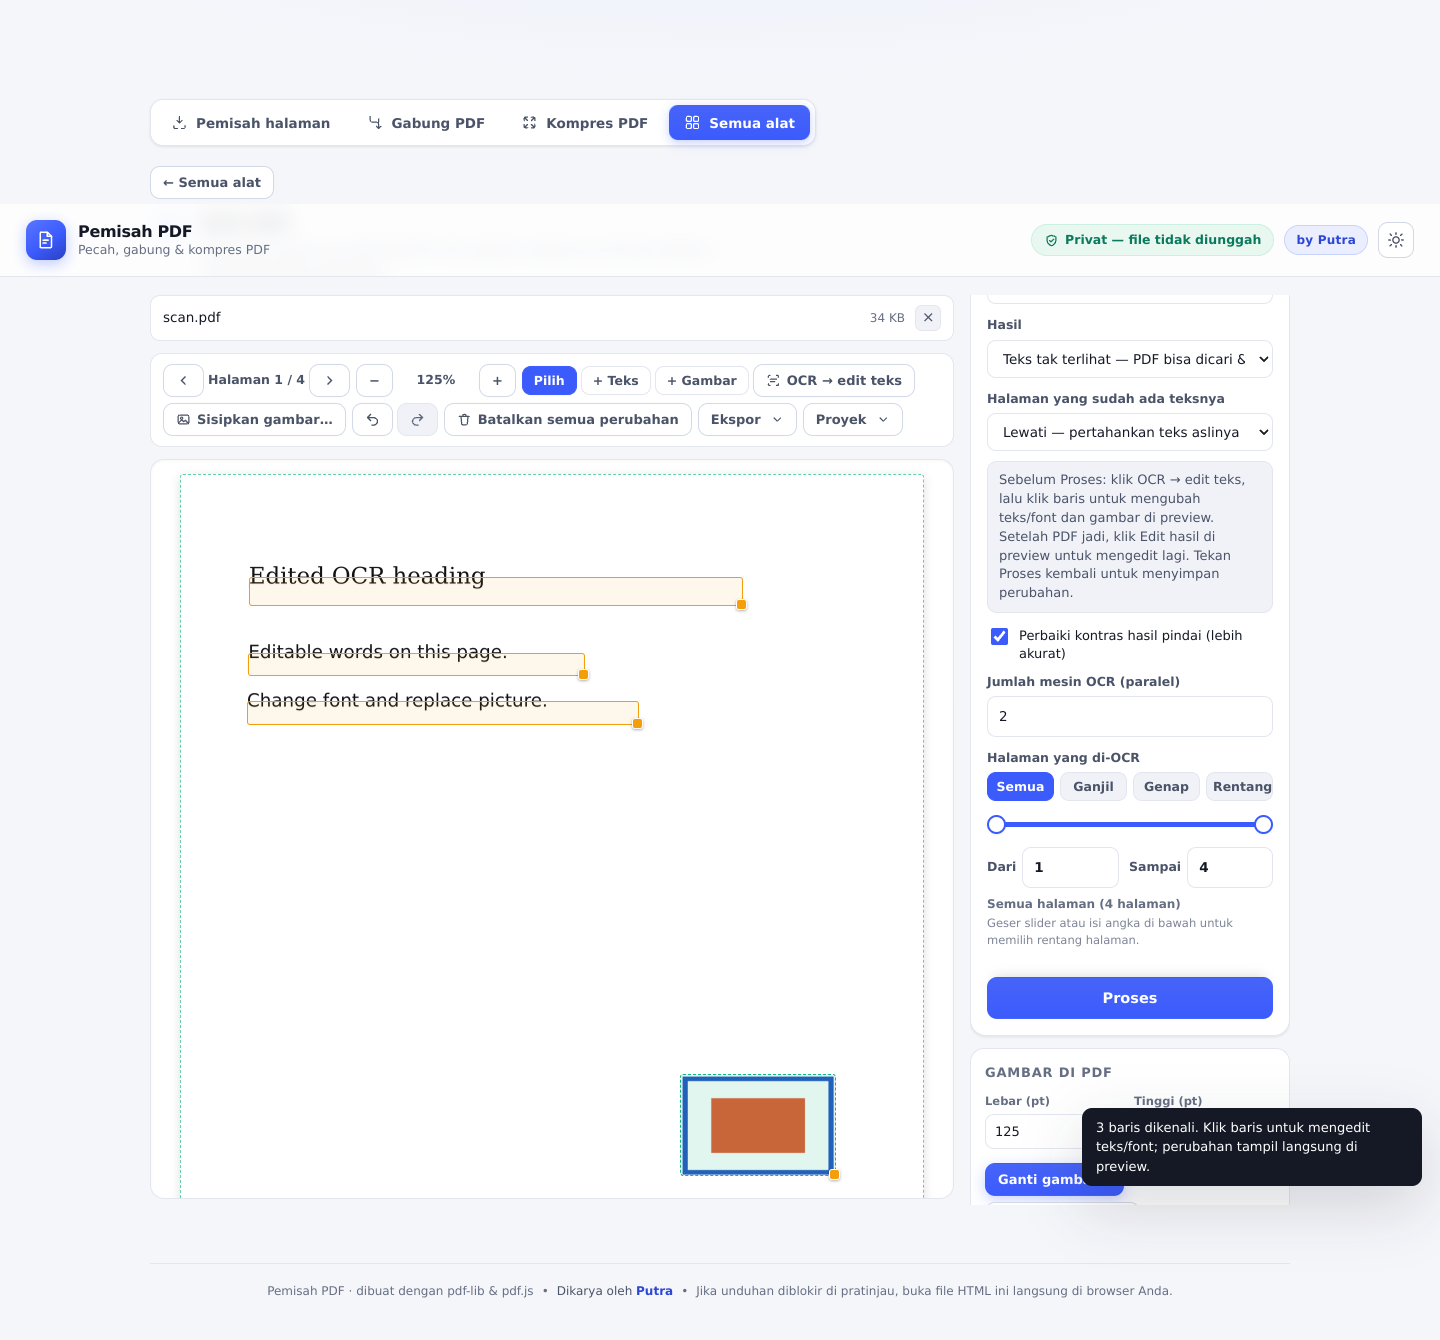
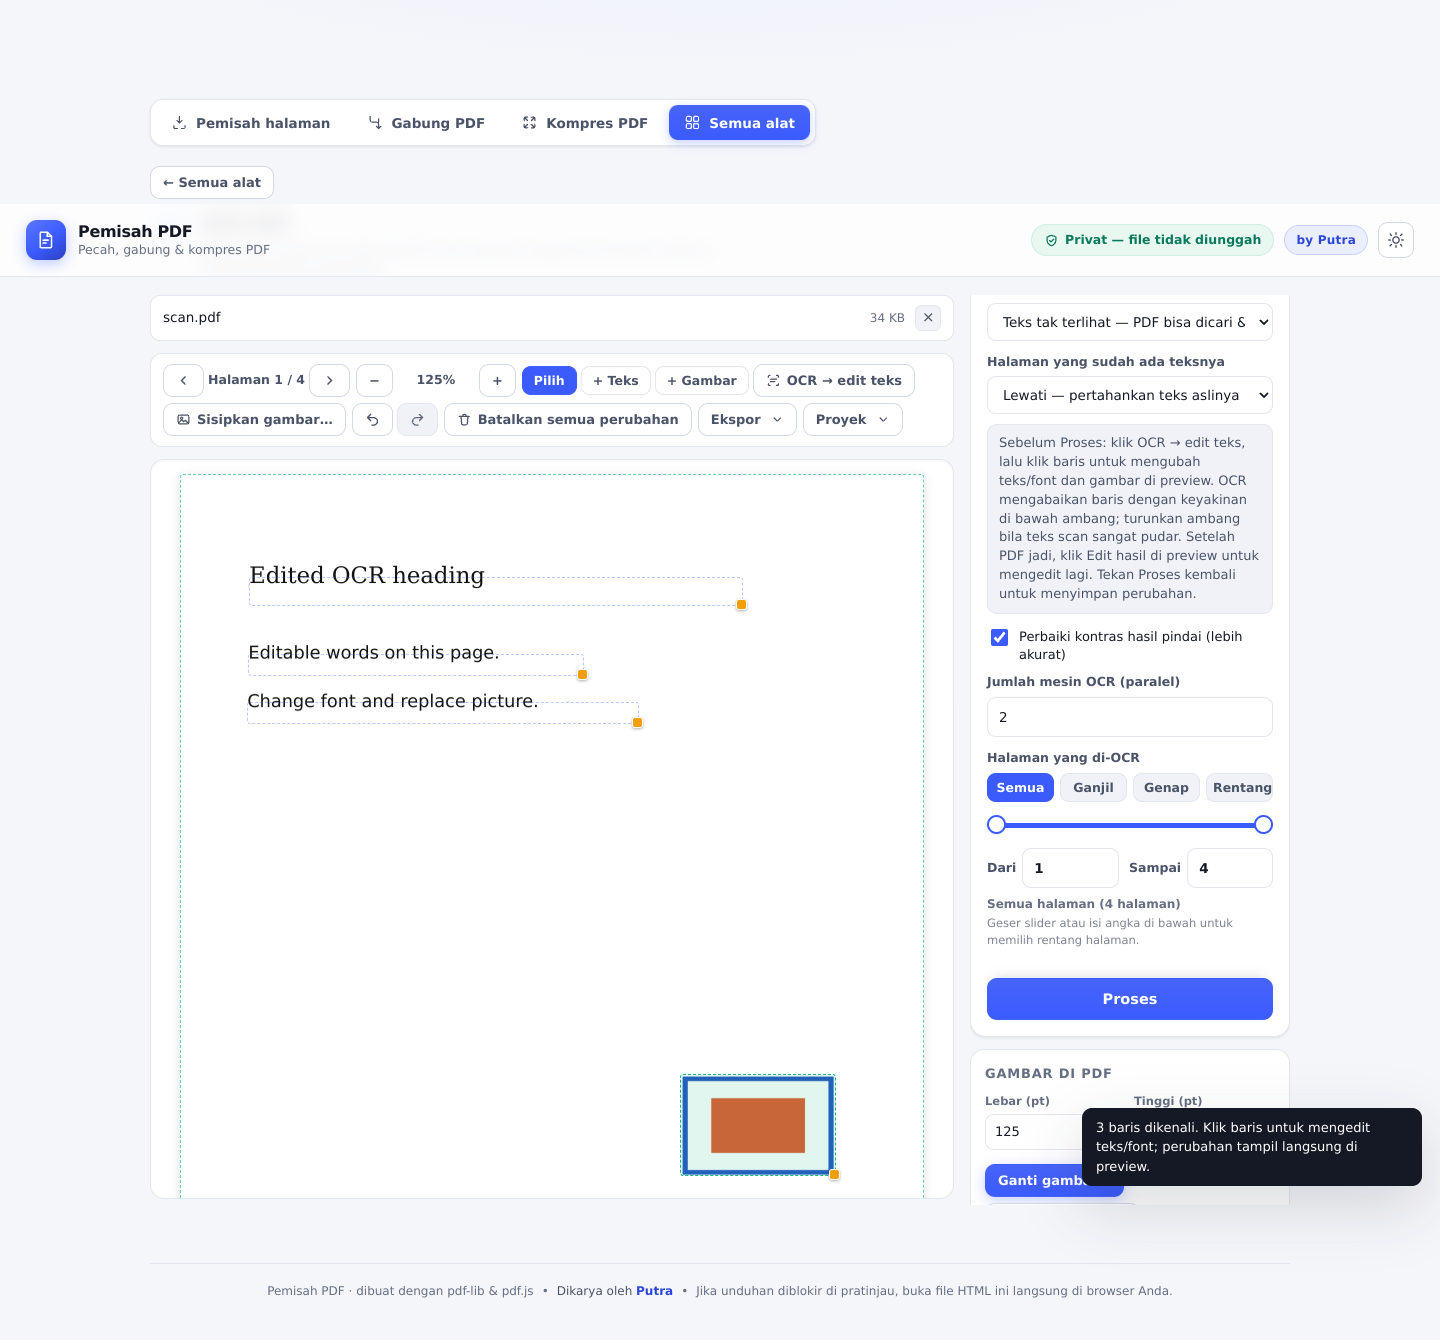
Kurangi noise dan tingkatkan kualitas OCR scan
Screenshot pengguna menunjukkan satu halaman scan sebagai gambar penuh dengan overlay OCR yang bertumpuk. Tambahkan confidence threshold yang bisa dikonfigurasi (30% default; 0-95) pada OCR preview dan hasil PDF untuk mengabaikan false positives; naikkan resolusi bawaan ke 250 DPI; tampilkan confidence skip dengan pesan yang dapat ditindaklanjuti; dan ubah kotak OCR non-selected menjadi transparan/garis tipis agar scan tetap terbaca. Jaga OCR satu worker offline untuk preview. Audit raster 4 rotasi: 26/0, termasuk mock confidence 92 vs 9, final PDF/searchable + visual preview 99%; audit-ocr 44/0, editor29/0, produksi74/0, payung129/0. Lampiran hanya screenshot, bukan PDF scan sumber—akurasi karakter spesifik tetap memerlukan sumber asli.

diff --git a/tool-smart.js b/tool-smart.js
@@ -1486,8 +1486,9 @@ td.tag{font-weight:600;white-space:nowrap;width:90px}
   }
 
   /* Kumpulkan kata + kotaknya dari hasil pengenalan Tesseract. */
-  function kumpulkanKata(data) {
+  function kumpulkanKata(data, ambang) {
     const out = [];
+    const minConf = Math.max(0, Math.min(95, Number(ambang) || 0));
     const blocks = (data && data.blocks) || [];
     for (const b of blocks) {
       for (const p of (b.paragraphs || [])) {
@@ -1495,9 +1496,10 @@ td.tag{font-weight:600;white-space:nowrap;width:90px}
           for (const w of (l.words || [])) {
             const bb = w.bbox;
             const text = (w.text || "").trim();
-            if (!text || !bb) continue;
+            const confidence = Number(w.confidence);
+            if (!text || !bb || (isFinite(confidence) && confidence >= 0 && confidence < minConf)) continue;
             out.push({
-              text,
+              text, confidence: isFinite(confidence) ? confidence : null,
               x0: bb.x0, y0: bb.y0, x1: bb.x1, y1: bb.y1,
             });
           }
@@ -1666,7 +1668,7 @@ td.tag{font-weight:600;white-space:nowrap;width:90px}
        abs  : PDF user space (dipakai pada halaman asli yang dipertahankan)
        tamp : ruang tampilan (dipakai pada halaman yang dibangun ulang) */
   async function ocrHalaman(o) {
-    const { pdfjs, nomor, worker, dpi, perbaiki, pakaiJpeg, laporkan } = o;
+    const { pdfjs, nomor, worker, dpi, perbaiki, pakaiJpeg, laporkan, minConfidence } = o;
     /* Coba orientasi intrinsic lebih dulu. Pada PDF scan legacy
        konten kadang sudah diputar berlawanan dengan /Rotate; bila
        confidence rendah, uji orientasi tampilan juga lalu pilih hasil
@@ -1716,7 +1718,7 @@ td.tag{font-weight:600;white-space:nowrap;width:90px}
 
     let kata = [];
     if (worker) {
-      kata = kumpulkanKata(res && res.data);
+      kata = kumpulkanKata(res && res.data, minConfidence);
     } else if ("TextDetector" in window) {
       try {
         const detektor = new window.TextDetector();
@@ -1791,7 +1793,8 @@ td.tag{font-weight:600;white-space:nowrap;width:90px}
           ["ind+eng", "Indonesia + Inggris (paling akurat, lebih lambat)"],
         ],
       },
-      { type: "number", id: "scale", label: "Resolusi OCR (DPI)", value: 200, min: 100, max: 400 },
+      { type: "number", id: "scale", label: "Resolusi OCR (DPI)", value: 250, min: 100, max: 400 },
+      { type: "number", id: "confidence", label: "Ambang keyakinan OCR (%)", value: 30, min: 0, max: 95 },
       {
         type: "select", id: "mode", label: "Hasil", value: "searchable",
         options: [
@@ -1807,7 +1810,7 @@ td.tag{font-weight:600;white-space:nowrap;width:90px}
           ["force", "OCR juga — teks asli diganti hasil OCR"],
         ],
       },
-      { type: "note", text: "Sebelum Proses: klik OCR → edit teks, lalu klik baris untuk mengubah teks/font dan gambar di preview. Setelah PDF jadi, klik Edit hasil di preview untuk mengedit lagi. Tekan Proses kembali untuk menyimpan perubahan." },
+      { type: "note", text: "Sebelum Proses: klik OCR → edit teks, lalu klik baris untuk mengubah teks/font dan gambar di preview. OCR mengabaikan baris dengan keyakinan di bawah ambang; turunkan ambang bila teks scan sangat pudar. Setelah PDF jadi, klik Edit hasil di preview untuk mengedit lagi. Tekan Proses kembali untuk menyimpan perubahan." },
       { type: "check", id: "contrast", label: "Perbaiki kontras hasil pindai (lebih akurat)", value: true },
       { type: "number", id: "workers", label: "Jumlah mesin OCR (paralel)", value: 2, min: 1, max: 4 },
       { type: "pagerange", id: "halaman", label: "Halaman yang di-OCR", value: { mode: "all", dari: 1, sampai: 0 } },
@@ -1818,6 +1821,7 @@ td.tag{font-weight:600;white-space:nowrap;width:90px}
       const mode = String(ctx.opts.mode || "searchable");
       const paksa = ctx.opts.existing === "force";
       const perbaiki = ctx.opts.contrast !== false;
+      const minConfidence = Math.max(0, Math.min(95, Number(ctx.opts.confidence) || 0));
       const jumlahMesin = Math.min(4, Math.max(1, Number(ctx.opts.workers) || 2));
       const out = [];
       const workers = [];
@@ -1887,6 +1891,7 @@ td.tag{font-weight:600;white-space:nowrap;width:90px}
               const h = await ocrHalaman({
                 pdfjs, nomor: r.nomor, worker: w, dpi, perbaiki,
                 pakaiJpeg: mode !== "clean" && r.adaTeks,
+                minConfidence,
                 laporkan: (jumlahKata) => {
                   selesai++;
                   ctx.progress(5 + Math.round((selesai / total) * 75),

diff --git a/tool-editor.js b/tool-editor.js
@@ -492,6 +492,7 @@
         d.style.height = r.h + "px";
         d.dataset.opid = o.id;
         d.title = o.k === "text" ? (o.text || "") : "Gambar baru";
+        if (o.ocrGenerated) d.classList.add("ed-ocr-box");
         const h = el("span", "ed-handle");
         d.appendChild(h);
         layer.appendChild(d);
@@ -1254,7 +1255,8 @@
         if (!window.Tesseract) throw new Error("Mesin OCR tidak termuat.");
         const ocrPrefs = (ui() && ui().opts) || {};
         const langs = String(ocrPrefs.lang || "ind+eng");
-        const dpi = Math.min(400, Math.max(100, Number(ocrPrefs.scale) || 180));
+        const dpi = Math.min(400, Math.max(100, Number(ocrPrefs.scale) || 250));
+        const minConfidence = Math.max(0, Math.min(95, Number(ocrPrefs.confidence) || 0));
         const base = new URL("vendor/tesseract/", location.href).href;
         let lastCoreError = null;
         for (const core of ["tesseract-core-simd-lstm.wasm.js", "tesseract-core-lstm.wasm.js"]) {
@@ -1284,12 +1286,18 @@
         const result = await worker.recognize(canvas, {}, { text: true, blocks: true });
         canvas.width = canvas.height = 0;
         const found = [];
+        let skippedLowConfidence = 0;
         for (const block of (result.data.blocks || [])) {
           for (const para of (block.paragraphs || [])) {
             for (const line of (para.lines || [])) {
               const text = (line.text || "").trim();
               const bb = line.bbox;
+              const confidence = Number(line.confidence);
               if (!text || !bb) continue;
+              if (isFinite(confidence) && confidence >= 0 && confidence < minConfidence) {
+                skippedLowConfidence++;
+                continue;
+              }
               const pdfViewport = page.getViewport({ scale: 1, rotation: 0 });
               const a = pdfViewport.convertToPdfPoint(bb.x0 / (dpi / 72), bb.y1 / (dpi / 72));
               const b = pdfViewport.convertToPdfPoint(bb.x1 / (dpi / 72), bb.y0 / (dpi / 72));
@@ -1299,7 +1307,9 @@
             }
           }
         }
-        if (!found.length) throw new Error("OCR tidak menemukan teks. Coba pindai dengan resolusi atau kontras yang lebih baik.");
+        if (!found.length) throw new Error(skippedLowConfidence
+          ? `Semua ${skippedLowConfidence} baris berada di bawah ambang keyakinan ${minConfidence}%. Turunkan ambang OCR atau tingkatkan kualitas scan.`
+          : "OCR tidak menemukan teks. Coba pindai dengan resolusi atau kontras yang lebih baik.");
         pushHistory(true);
         for (const item of found) {
           const id = "ocr" + (++S.opSeq);
@@ -1311,7 +1321,7 @@
         }
         S.sel = null;
         await redraw();
-        toast(`${found.length} baris dikenali. Klik baris untuk mengedit teks/font; perubahan tampil langsung di preview.`);
+        toast(`${found.length} baris dikenali${skippedLowConfidence ? `; ${skippedLowConfidence} baris berkeyakinan rendah dilewati` : ""}. Klik baris untuk mengedit teks/font; perubahan tampil langsung di preview.`);
       } catch (err) {
         toast("OCR gagal: " + ((err && err.message) || err), "err");
       } finally {

diff --git a/tool-ui.js b/tool-ui.js
@@ -884,9 +884,15 @@
             state.files = [{ id: "tf" + (++toolFileSeq), name: r.name, bytes,
               type: "application/pdf", size: bytes.length }];
             if (state.custom && state.custom.opts) state.custom.opts.edits = {};
+            /* renderFiles normally refreshes custom editors asynchronously.
+               Suppress that implicit call here so we can await exactly one
+               refresh and avoid a brief stale-preview race. */
+            const refreshEditor = state.custom && state.custom.refreshEditor;
+            if (state.custom) state.custom.refreshEditor = null;
             renderFiles();
-            if (state.custom && typeof state.custom.refreshEditor === "function") {
-              await state.custom.refreshEditor();
+            if (state.custom && typeof refreshEditor === "function") {
+              state.custom.refreshEditor = refreshEditor;
+              await refreshEditor();
             }
             if (sh().toast) sh().toast("PDF hasil OCR dimuat ke preview. Klik teks atau gambar untuk mengedit; tekan Proses lagi untuk menyimpan.", "ok", 5500);
             $("#toolView").scrollIntoView({ behavior: "smooth", block: "start" });

diff --git a/style.css b/style.css
@@ -1333,6 +1333,11 @@ code{background:var(--surface-2);border:1px solid var(--line);border-radius:6px;
 .ed-box.ed-new{border-style:solid;border-color:#f59e0b;background:rgba(245,158,11,.08)}
 .ed-box.edited{border-color:#f59e0b}
 .ed-box.sel{background:rgba(59,91,253,.14);border-color:var(--brand);border-style:solid}
+/* OCR menghasilkan banyak kotak. Jangan isi/tint semua scan sekaligus:
+   kotak OCR tak terpilih dibuat tipis, hover/seleksi baru disorot. */
+.ed-box.ed-ocr-box{border:1px dashed rgba(37,99,235,.34);background:transparent}
+.ed-box.ed-ocr-box:hover{background:rgba(59,91,253,.10);border-color:var(--brand)}
+.ed-box.ed-ocr-box.sel{background:rgba(59,91,253,.16);border-color:var(--brand);border-style:solid}
 .ed-handle{
   position:absolute;right:-5px;bottom:-5px;width:11px;height:11px;border-radius:3px;
   background:#f59e0b;border:1.5px solid #fff;box-shadow:0 1px 3px rgba(0,0,0,.3);cursor:nwse-resize;

diff --git a/README.md b/README.md
@@ -136,7 +136,7 @@ diduplikasi** — semuanya memakai tautan ke alur yang sudah ada:
 
 Fitur **OCR PDF** kini punya panggung preview editor sendiri. Setelah memilih PDF scan, tekan **“OCR → edit teks”** pada toolbar preview. Setiap baris hasil OCR menjadi lapisan yang bisa dipilih dan diedit langsung seperti objek Word: ubah isi, font, ukuran, warna, gaya, posisi, dan perataan. Foto/ilustrasi bisa dipilih lalu digeser, diubah ukurannya, diganti, dihapus, atau disisipkan. Tekan **Proses** di panel OCR untuk membuat PDF; teks edit diterapkan ke hasil akhir dan tetap searchable. Tombol **Edit hasil di preview** pada baris hasil membuka kembali PDF tersebut agar masih bisa diedit setelah OCR diproses; tekan **Proses** lagi untuk menyimpan revisi. Perubahan mendukung undo/redo dan simpan/buka proyek.
 
-OCR (Tesseract offline) memakai bahasa dan resolusi pilihan di panel (bawaan Indonesia, 200 DPI), satu worker. Pemilihan orientasi membandingkan orientasi intrinsik dan `/Rotate` saat keyakinan OCR rendah. **Catatan:** teks scan lama ditutup dengan warna latar sekitar lalu diganti lapisan teks; ini bukan content-aware fill, jadi bekas penutup dapat terlihat di latar foto/bertekstur. File tidak diunggah. Audit otomatis: `node tools/mkfixture-editor-ocr.mjs` lalu `node tools/audit-editor-ocr.mjs` (19/0; rotasi 0/90/180/270; PDF akhir cocok 99,0% piksel dengan preview dalam toleransi Δ32).
+OCR (Tesseract offline) memakai bahasa, resolusi, dan ambang confidence pilihan di panel (bawaan Indonesia, 250 DPI, confidence 30%), satu worker. Kata/baris dengan confidence rendah dilewati untuk mengurangi false positives; ambang dapat diturunkan untuk scan pudar. Kotak OCR yang belum dipilih tidak lagi menutupi scan. Pemilihan orientasi membandingkan orientasi intrinsik dan `/Rotate` saat keyakinan OCR rendah. **Catatan:** teks scan lama ditutup dengan warna latar sekitar lalu diganti lapisan teks; ini bukan content-aware fill, jadi bekas penutup dapat terlihat di latar foto/bertekstur. File tidak diunggah. Audit otomatis: `node tools/mkfixture-editor-ocr.mjs` lalu `node tools/audit-editor-ocr.mjs` (26/0; confidence, rotasi 0/90/180/270; PDF akhir cocok 99,0% piksel dengan preview dalam toleransi Δ32).
 | **Keamanan PDF** | Unlock PDF · Protect PDF · Sign PDF · Redact PDF · Compare PDF |
 | **Kecerdasan PDF** | AI Summarizer · Translate PDF · PDF to Markdown |
 

diff --git a/docs/audit-ocr-image-quality-2026-11-22.md b/docs/audit-ocr-image-quality-2026-11-22.md
@@ -1,0 +1,23 @@
+# Audit perbaikan OCR scan padat/noisy
+
+## Temuan dari screenshot pengguna
+
+Screenshot menunjukkan PDF 1,6 MB sebagai **1 gambar penuh, tanpa teks PDF**. Setelah menekan OCR, banyak kotak/lapisan berwarna menutupi halaman, dan beberapa kata terlihat seperti noise. Yang dapat dipastikan dari screenshot adalah antarmuka preview bertumpuk kotak OCR; file PDF sumber tidak dilampirkan, jadi ketepatan pengenalan terhadap dokumen itu belum dapat diverifikasi langsung.
+
+## Perbaikan
+
+1. **Ambang confidence yang bisa diatur.** Opsi baru `Ambang keyakinan OCR (%)` (default 30; rentang 0–95) berlaku untuk OCR preview dan OCR PDF hasil. Kata/baris dengan confidence lebih rendah dilewati agar noise tidak otomatis dijadikan teks edit/searchable. Jika semua baris terbuang, pesan menyarankan menurunkan ambang/meningkatkan kualitas scan.
+2. **Resolusi default 250 DPI** (tetap dapat diatur 100–400). Ini kompromi ketajaman untuk cetakan kecil vs waktu dan memori perangkat; OCR preview tetap satu worker dan membaca opsi bahasa/DPI di panel.
+3. **Preview tidak lagi menyelimuti scan.** Kotak OCR yang belum dipilih kini transparan dengan garis tipis; warna sorotan hanya muncul saat hover/seleksi. Semua kotak tetap dapat diklik.
+4. Kunci API/jaringan tidak dipakai; OCR tetap lokal.
+
+## Hasil audit
+
+- Harness OCR editor `tools/audit-editor-ocr.mjs`: **26 lulus / 0 gagal**. Termasuk pemeriksaan filter confidence memakai worker mock (confidence 92 dipertahankan, confidence 9 diabaikan), rotasi 0/90/180/270, font/isi editable, gambar, edit sebelum dan sesudah proses, PDF akhir searchable, visual preview/PDF 99% dalam Δ32.
+- Harness OCR produksi `tools/audit-ocr.mjs`: **44 lulus / 0 gagal**, termasuk scan berorientasi 90°.
+- Audit payung seluruh fitur: **129 lulus / 0 gagal**.
+- Produksi: **74/0**; Editor: **29/0**.
+
+## Keterbatasan reproduksi
+
+Lampiran berisi **screenshot aplikasi**, bukan file `SK PPKK.pdf` yang sedang di-OCR. Karena itu kami dapat memperbaiki gejala preview dan mengurangi noise confidence secara umum, tetapi tidak mengklaim hasil OCR sudah benar untuk dokumen sumber tersebut. Untuk audit akurasi karakter/baris dan tuning spesifik, perlu PDF scan sumber asli (boleh menghapus/menyamarkan data pribadi terlebih dahulu).

diff --git a/AUDIT.md b/AUDIT.md
@@ -784,3 +784,24 @@ dipindah, atau dihapus.
 - `audit-ocr.mjs` → **44/0** (termasuk scan dengan rotasi legacy); `verify-produksi.mjs` → **74/0**; `audit-semua.mjs` → **129/0**.
 - Rincian dan screenshot: `docs/audit-editor-ocr.md`,
   `docs/audit-editor-ocr/ocr-preview.png`.
+
+
+---
+
+# Audit OCR scan padat/noisy — 2026-11-22
+
+Screenshot pengguna memperlihatkan halaman scan sebagai gambar penuh (tanpa
+lapisan teks) dengan kotak OCR yang terlalu ramai. Perbaikan UX dan akurasi:
+ambang confidence baru (30% default, 0–95, bisa diatur), confidence rendah
+dilewati pada preview maupun PDF, DPI default 250 (100–400), dan kotak OCR
+nonselected kini transparan/tipis. OCR tetap offline dan satu worker pada editor.
+
+- `tools/audit-editor-ocr.mjs` → **26/0**, termasuk mock confidence 92 dipertahankan,
+  confidence 9 diabaikan, edit sebelum/sesudah Proses, 4 orientasi, gambar,
+  output searchable, serta render final cocok 99% piksel dengan preview (Δ32).
+- `tools/audit-ocr.mjs` → **44/0**.
+- Rincian: `docs/audit-ocr-image-quality-2026-11-22.md`.
+
+**Batas audit:** attachment adalah screenshot antarmuka, bukan sumber PDF scan.
+Akurasi OCR spesifik untuk dokumen pada screenshot belum dapat dinilai tanpa
+PDF asli (data pribadi boleh disamarkan).

diff --git a/docs/audit-editor-ocr.md b/docs/audit-editor-ocr.md
@@ -37,6 +37,6 @@ Harness `tools/mkfixture-editor-ocr.mjs` membuat PDF scan raster 4 halaman berot
 9. Halaman yang sudah dikenali di preview tidak di-OCR ulang saat Proses.
 10. Tombol **Edit hasil di preview** membuka ulang PDF OCR; teks yang diubah setelah proses kedua juga masuk ke PDF akhir.
 
-Hasil terbaru: **24 lulus / 0 gagal**; audit OCR yang lama **44/0** setelah perbaikan rotasi adaptif. Bukti visual: `docs/audit-editor-ocr/ocr-preview.png`.
+Hasil terbaru: **26 lulus / 0 gagal**; audit OCR yang lama **44/0** setelah perbaikan rotasi adaptif. Bukti visual: `docs/audit-editor-ocr/ocr-preview.png`.
 
 Regresi terkait: OCR lama **44/0**; editor **29/0**; produksi **74/0**; audit payung **129/0**.
